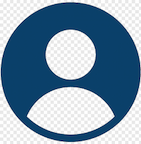
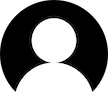
Clean up code

diff --git a/client/pages/index.jsx b/client/pages/index.jsx
@@ -36,31 +36,21 @@ export default class App extends Component {
     this.populateImagesArr(this.sdgImages);
     return (
       <Container>
-        <Row className="header-row" xs="15" justify="center" align="middle">
-          <Col>
+        <Row className="header-row" justify="center" align="middle">
+          <Col xs="1">
             <img className="header-img" src="/homepage-images/menu-icon.png" />
           </Col>
-          <Col>
+          <Col xs="1">
             <img className="header-img" src="/homepage-images/kso-icon.png" />
           </Col>
-          <Col></Col>
-          <Col></Col>
-          <Col></Col>
-          <Col></Col>
-          <Col></Col>
-          <Col></Col>
-          <Col></Col>
-          <Col></Col>
-          <Col></Col>
-          <Col></Col>
-          <Col>
+          <Col xs={{ size: 1, offset: 8 }}>
             <img
               className="header-img"
               src="/homepage-images/notification-icon.png"
             />
           </Col>
-          <Col>
-            <img className="header-img" src="/homepage-images/user3-icon.png" />
+          <Col xs="1">
+            <img className="header-img" src="/homepage-images/user-icon.png" />
           </Col>
         </Row>
         <div className="page-title">

diff --git a/client/public/style.scss b/client/public/style.scss
@@ -39,7 +39,7 @@ body {
   text-align: left;
 }
 .header-img {
-  width: 80%;
+  width: 70%;
   height: auto;
 }
 .header-img:hover {
@@ -89,43 +89,3 @@ body {
 .sdg-col {
   padding: 0px;
 }
-
-// .container {
-//   position: relative;
-//   width: 50%;
-// }
-
-// .image {
-//   display: block;
-//   width: 100%;
-//   height: auto;
-// }
-
-// .overlay {
-//   position: absolute;
-//   top: 0;
-//   bottom: 0;
-//   left: 0;
-//   right: 0;
-//   height: 100%;
-//   width: 100%;
-//   opacity: 0;
-//   transition: .5s ease;
-//   background-color: #008CBA;
-// }
-
-// .container:hover .overlay {
-//   opacity: 1;
-// }
-
-// .text {
-//   color: white;
-//   font-size: 20px;
-//   position: absolute;
-//   top: 50%;
-//   left: 50%;
-//   -webkit-transform: translate(-50%, -50%);
-//   -ms-transform: translate(-50%, -50%);
-//   transform: translate(-50%, -50%);
-//   text-align: center;
-// }
